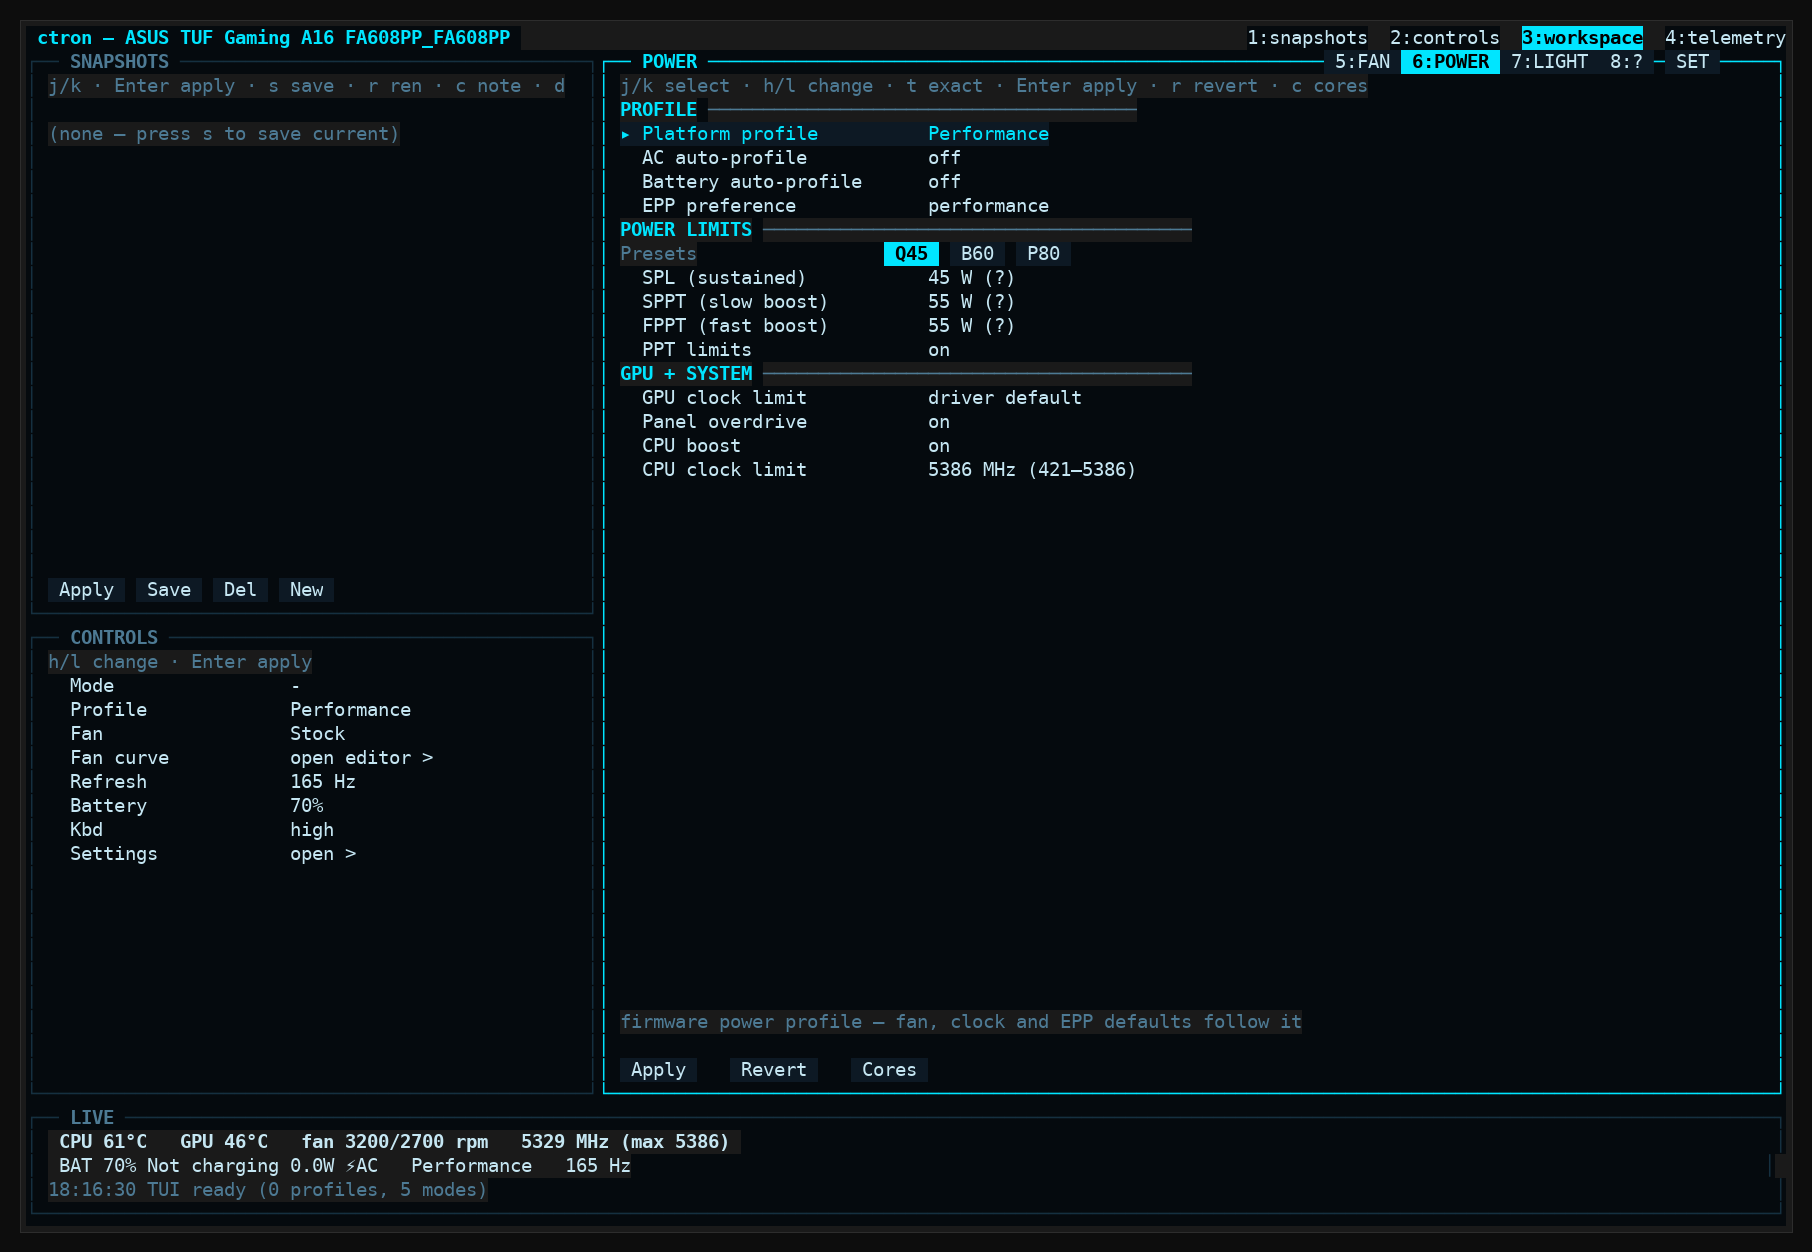
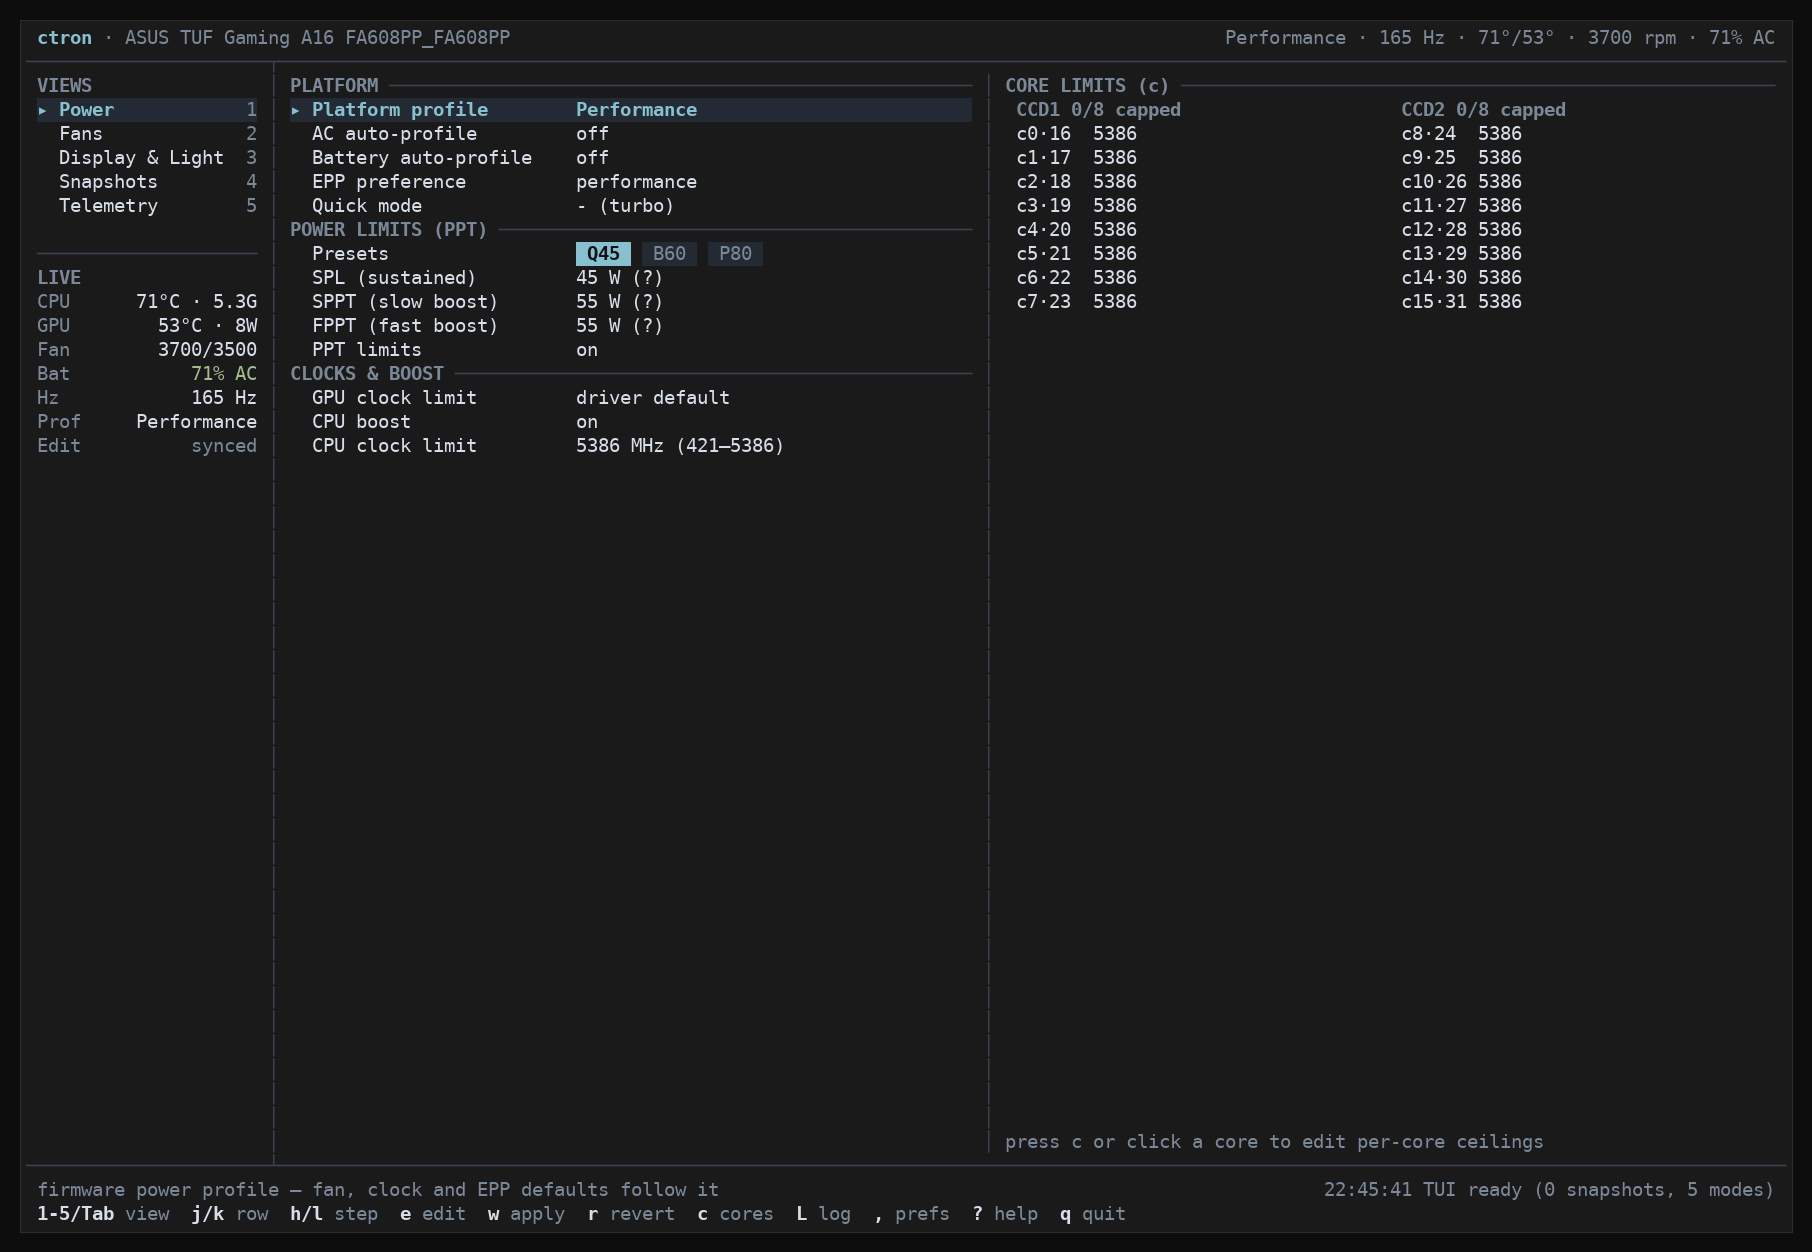
docs: re-shoot TUI screenshots for Konsept C & add Snapshots inspector image
GitHub still carried the pre-v0.12.0 Bento PNGs (dated 2026-11-19).
Re-shot tui-{fan,power,telem}.png against the shipped Konsept C TUI
(rail + workspace, inline CORE LIMITS, 8-section Telemetry grid), added
tui-snap.png for the two-pane Snapshots inspector (seeded isolated
config via 'snapshot export'; CTRON_SHOT_CONFIG=<dir> opt-in added to
scripts/tui_screenshot.py), embedded it in the README view-4 paragraph,
and fixed 'u u' -> 'uu' wording. --help block re-verified byte-identical.

diff --git a/scripts/tui_screenshot.py b/scripts/tui_screenshot.py
@@ -14,6 +14,10 @@ Run from the repo root (BIN is ./build/ctron):
 
 The optional 4th arg is a key script: ';'-separated steps, each either
 'sleep' or a key string sent to the TUI.
+
+Set CTRON_SHOT_CONFIG=<dir> to run against a prepared config dir (e.g.
+one pre-seeded with `ctron snapshot export` profiles) instead of an
+empty throwaway config.
 """
 
 import os
@@ -478,8 +482,12 @@ def main():
     rows = int(sys.argv[3]) if len(sys.argv) > 3 else 50
     script = sys.argv[4] if len(sys.argv) > 4 else ""
 
-    tmpcfg = tempfile.mkdtemp(prefix="ctron-shot-")
-    os.environ["CTRON_CONFIG"] = tmpcfg
+    seed = os.environ.get("CTRON_SHOT_CONFIG")
+    if seed:
+        os.environ["CTRON_CONFIG"] = seed
+    else:
+        tmpcfg = tempfile.mkdtemp(prefix="ctron-shot-")
+        os.environ["CTRON_CONFIG"] = tmpcfg
     s = Session(cols, rows)
     try:
         s.quiet(window=0.5, timeout=15.0)

diff --git a/HANDOFF.md b/HANDOFF.md
@@ -5,7 +5,36 @@
 
 ---
 
-## Latest session — 2026-11-24 (Snapshot backend audit & two-pane interactive Snapshot Editor)
+## Latest session — 2026-11-24 (GitHub visual refresh: README screenshots for Konsept C)
+
+**GLM / Kerempkl / FA608PP** — the GitHub page still carried the pre-v0.12.0
+Bento screenshots (`docs/tui-*.png` dated 2026-11-19) even though `origin/main`
+was current through `d4fc51e`. Re-shot every README image against the shipped
+Konsept C TUI:
+
+- **Re-shot `docs/tui-{fan,power,telem}.png`** (views `2`/`1`/`5`, 160×50,
+  `Native` theme): left rail + full-height workspace, inline `CORE LIMITS`
+  pane inside `1 Power`, 8-section Telemetry grid with live numbers.
+- **Added `docs/tui-snap.png`** (view `4`): two-pane snapshot list + 12-field
+  inspector with a `Δ N` badge and `(live: …)` diffs. Seeded an isolated
+  config with `ctron snapshot export` (stock / hand-edited `gaming` /
+  `quiet/office` group entry) and added an opt-in `CTRON_SHOT_CONFIG=<dir>`
+  env to `scripts/tui_screenshot.py` so future shots can run against a
+  prepared config dir instead of an empty throwaway.
+- **README:** embedded the snapshot image in the view-`4` paragraph and fixed
+  `u u` → `uu` (matches code/CHANGELOG wording).
+- **Verified:** real `--help` byte-identical to the README flag block,
+  `--version` 0.12.0 = README badge, all 4 image refs resolve, each PNG
+  visually inspected (Konsept C rail + workspace confirmed), script
+  `py_compile` OK, `make test` green (no C changes).
+- **Field note:** tags `v0.10.0`, `v0.11.0`, `v0.12.0` are still local-only —
+  GitHub releases lag until they are pushed (user's call).
+
+Signed: **GLM 5.3** — README + screenshot refresh for v0.12.0.
+
+---
+
+## Previous session — 2026-11-24 (Snapshot backend audit & two-pane interactive Snapshot Editor)
 
 **Antigravity / Kerempkl / FA608PP** — audited the entire `.ctr` snapshot
 pipeline (`src/profile.{h,c}`, `src/main.c`, `src/ui/ui.c`,

diff --git a/README.md b/README.md
@@ -104,11 +104,13 @@ Hyprland — see the [handoff notes](#display-backends-compositor-refresh-rate-c
 View `4` (`Snapshots`) shows saved `.ctr` states (`group/name` entries group
 into subdirectories) with live diff badges (`≡ live` / `Δ N`) on the left and a
 12-field **Inspector & Interactive Snapshot Editor** on the right: `Enter`
-applies, `s`/`n` saves a fresh live snapshot, `u u` overwrites the selected
+applies, `s`/`n` saves a fresh live snapshot, `uu` overwrites the selected
 snapshot from live hardware (preserving its `# note:`), and `e` focuses the
 field editor (`h`/`l` step, `e` exact value, `x` toggle `— (skip)` for
 selective/partial snapshots that leave omitted hardware untouched on apply,
 `f` capture live fan curves or per-core caps, `w`/`Enter` save).
+
+![ctron TUI — Snapshots inspector & field editor](docs/tui-snap.png)
 
 View `5` (`Telemetry`, or press `t` from anywhere) hosts the **8-section
 read-only telemetry workspace** (CPU / GPU / iGPU / RAM / storage / network /

diff --git a/CHANGELOG.md b/CHANGELOG.md
@@ -26,6 +26,14 @@ see [docs/history/changelog-2026-09-11.md](docs/history/changelog-2026-09-11.md)
   - **Double-`u` (`uu`) live overwrite:** overwrites the selected snapshot from
     fresh live hardware while preserving its `# note:` header.
 
+### Changed
+- **README visuals refreshed for the v0.12.0 Konsept C TUI:** re-shot
+  `docs/tui-{fan,power,telem}.png` (rail + workspace layout, inline
+  `CORE LIMITS`, 8-section Telemetry grid), added a `docs/tui-snap.png`
+  two-pane Snapshots inspector image to the README, and added an opt-in
+  `CTRON_SHOT_CONFIG=<dir>` to `scripts/tui_screenshot.py` for shooting
+  against a pre-seeded config.
+
 ### Fixed
 - **Snapshot backend & apply bugs (`profile.c`, `ui.c`, `main.c`, `panel_profiles.c`):**
   - **Fresh live reads before TUI save/inspect:** entering `4 Snapshots`,
